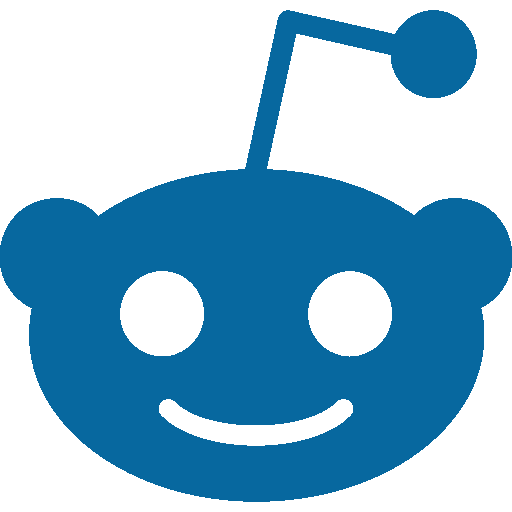
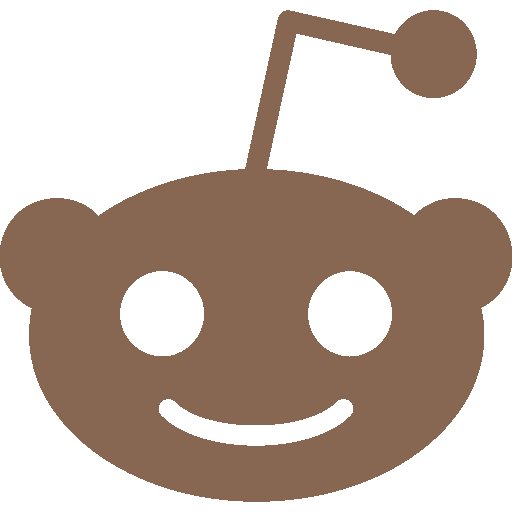
Basic UI improvement

diff --git a/public/css/style.css b/public/css/style.css
@@ -1,214 +1,226 @@
-@import url('https://fonts.googleapis.com/css?family=Roboto&display=swap');
+@import url("https://fonts.googleapis.com/css?family=Roboto&display=swap");
 
 :root {
-	--dark-color-a: #07689f;
-	--dark-color-b: #a2d5f2;
-	--light-color: #fafafa;
-	--success-color: #5cb85c;
-	--error-color: #d9534f;
+  --dark-color-a: #765A4A;
+  --dark-color-b: #A08A7B;
+  --light-color: #fafafa;
+  --success-color: #5cb85c;
+  --error-color: #d9534f;
 }
 
 * {
-	box-sizing: border-box;
-	margin: 0;
-	padding: 0;
+  box-sizing: border-box;
+  margin: 0;
+  padding: 0;
 }
 
 body {
-	font-family: 'Roboto', sans-serif;
-	font-size: 16px;
-	background: var(--light-color);
-	margin: 20px;
+  font-family: "Roboto", sans-serif;
+  font-size: 16px;
+  background:linear-gradient(to bottom, rgba(228, 227, 228, 0.486), rgba(219, 226, 239, 0.658)),url('../Images/background.jpg');
+  background-size: cover;
+  background-position: center;
+  background-repeat: no-repeat;
+  margin: 20px;
+  height: 100vh;
 }
 
 ul {
-	list-style: none;
+  list-style: none;
 }
 
 a {
-	text-decoration: none;
+  text-decoration: none;
 }
 
 .btn {
-	cursor: pointer;
-	padding: 5px 15px;
-	background: var(--light-color);
-	color: var(--dark-color-a);
-	border: 0;
-	font-size: 17px;
+  cursor: pointer;
+  padding: 5px 15px;
+  background: var(--light-color);
+  color: var(--dark-color-a);
+  border: 0;
+  font-size: 17px;
 }
 
 /* Chat Page */
 
 .chat-container {
-	max-width: 1100px;
-	background: #fff;
-	margin: 30px auto;
-	overflow: hidden;
+  max-width: 1100px;
+  background: #fff;
+  margin: 30px auto;
+  overflow: hidden;
+  border-radius: 10px;
+  box-shadow: 0 1px 1px rgba(0, 0, 0, 0.11), 0 2px 2px rgba(0, 0, 0, 0.11),
+    0 4px 4px rgba(0, 0, 0, 0.11), 0 8px 8px rgba(0, 0, 0, 0.11),
+    0 16px 16px rgba(0, 0, 0, 0.11), 0 32px 32px rgba(0, 0, 0, 0.11);
 }
 
 .chat-header {
-	background: var(--dark-color-a);
-	color: #fff;
-	border-top-left-radius: 5px;
-	border-top-right-radius: 5px;
-	padding: 15px;
-	display: flex;
-	align-items: center;
-	justify-content: space-between;
+  background: var(--dark-color-a);
+  color: #fff;
+  border-top-left-radius: 5px;
+  border-top-right-radius: 5px;
+  padding: 15px;
+  display: flex;
+  align-items: center;
+  justify-content: space-between;
 }
 
 .chat-main {
-	display: grid;
-	grid-template-columns: 1fr 3fr;
+  display: grid;
+  grid-template-columns: 1fr 3fr;
 }
 
 .chat-sidebar {
-	background: var(--dark-color-b);
-	color: #fff;
-	padding: 20px 20px 60px;
-	overflow-y: scroll;
+  background: var(--dark-color-b);
+  color: #fff;
+  padding: 20px 20px 60px;
+  overflow-y: scroll;
 }
 
 .chat-sidebar h2 {
-	font-size: 20px;
-	background: rgba(0, 0, 0, 0.1);
-	padding: 10px;
-	margin-bottom: 20px;
+  font-size: 20px;
+  background: rgba(0, 0, 0, 0.1);
+  padding: 10px;
+  margin-bottom: 20px;
 }
 
 .chat-sidebar h3 {
-	margin-bottom: 15px;
+  margin-bottom: 15px;
 }
 
 .chat-sidebar ul li {
-	padding: 10px 0;
+  padding: 10px 0;
 }
 
 .chat-messages {
-	padding: 30px;
-	max-height: 500px;
-	overflow-y: scroll;
+  padding: 30px;
+  max-height: 500px;
+  overflow-y: scroll;
 }
 
 .chat-messages .message {
-	padding: 10px;
-	margin-bottom: 15px;
-	background-color: var(--light-color);
-	border-radius: 5px;
+  padding: 10px;
+  margin-bottom: 15px;
+  border-radius: 5px;
+  background-color: #f5f5f5;
 }
 
 .chat-messages .message .meta {
-	font-size: 15px;
-	font-weight: bold;
-	color: var(--dark-color-b);
-	opacity: 0.7;
-	margin-bottom: 7px;
+  font-size: 15px;
+  font-weight: bold;
+  color: var(--dark-color-b);
+  opacity: 0.7;
+  margin-bottom: 7px;
 }
 
 .chat-messages .message .meta span {
-	color: #777;
+  color: #777;
 }
 
 .chat-form-container {
-	padding: 20px 30px;
-	background-color: var(--dark-color-a);
+  padding: 20px 30px;
+  background-color: var(--dark-color-a);
 }
 
 .chat-form-container form {
-	display: flex;
+  display: flex;
 }
 
-.chat-form-container input[type='text'] {
-	font-size: 16px;
-	padding: 5px;
-	height: 40px;
-	flex: 1;
+.chat-form-container input[type="text"] {
+  font-size: 16px;
+  padding: 5px;
+  height: 40px;
+  flex: 1;
 }
 
 /* Join Page */
 .join-container {
-	max-width: 500px;
-	margin: 80px auto;
-	color: #fff;
+  max-width: 500px;
+  margin: 80px auto;
+  color: #fff;
+  border-radius: 10px;
+  box-shadow: 0 1px 1px rgba(0, 0, 0, 0.11), 0 2px 2px rgba(0, 0, 0, 0.11),
+    0 4px 4px rgba(0, 0, 0, 0.11), 0 8px 8px rgba(0, 0, 0, 0.11),
+    0 16px 16px rgba(0, 0, 0, 0.11), 0 32px 32px rgba(0, 0, 0, 0.11);
 }
 
 .join-header {
-	text-align: center;
-	padding: 20px;
-	background: var(--dark-color-a);
-	border-top-left-radius: 5px;
-	border-top-right-radius: 5px;
+  text-align: center;
+  padding: 20px;
+  background: var(--dark-color-a);
+  border-top-left-radius: 5px;
+  border-top-right-radius: 5px;
 }
 
-.logo-img{
-	margin-bottom: -8px;
-	margin-right: 10px;
+.logo-img {
+  margin-bottom: -8px;
+  margin-right: 10px;
 }
 
 .join-main {
-	padding: 30px 40px;
-	background: var(--dark-color-b);
+  padding: 30px 40px;
+  background: var(--dark-color-b);
 }
 
 .join-main p {
-	margin-bottom: 20px;
+  margin-bottom: 20px;
 }
 
 .join-main .form-control {
-	margin-bottom: 20px;
+  margin-bottom: 20px;
 }
 
 .join-main label {
-	display: block;
-	margin-bottom: 5px;
+  display: block;
+  margin-bottom: 5px;
 }
 
-.join-main input[type='text'] {
-	font-size: 16px;
-	padding: 5px;
-	height: 40px;
-	width: 100%;
+.join-main input[type="text"] {
+  font-size: 16px;
+  padding: 5px;
+  height: 40px;
+  width: 100%;
 }
 
 .join-main select {
-	font-size: 16px;
-	padding: 5px;
-	height: 40px;
-	width: 100%;
+  font-size: 16px;
+  padding: 5px;
+  height: 40px;
+  width: 100%;
 }
 
 .join-main .btn {
-	margin-top: 20px;
-	width: 100%;
+  margin-top: 20px;
+  width: 100%;
 }
 
 @media (max-width: 700px) {
-	.chat-main {
-		display: block;
-	}
+  .chat-main {
+    display: block;
+  }
 
-	.chat-sidebar {
-		display: none;
-	}
+  .chat-sidebar {
+    display: none;
+  }
 }
 
 /* footer */
-.sm-links{
-	color: var(--dark-color-a);
-	font-size: 0.7em;
-	text-align: center;
-	position: fixed;
-	bottom: 0.6%;
-	display: inline-block;
-	margin: auto;
+.sm-links {
+  color: #370F08;
+  font-size: 0.7em;
+  text-align: center;
+  position: fixed;
+  bottom: 1%;
+  left: 50%;
+  transform: translateX(-50%);
 }
-.reddit{
-	margin-right: 10px;
+.reddit {
+  margin-right: 10px;
 }
-.spotify{
-	margin-right: 10px;
+.spotify {
+  margin-right: 10px;
 }
-.youtube{
-	margin-right: 10px;
+.youtube {
+  margin-right: 10px;
 }

diff --git a/public/index.html b/public/index.html
@@ -25,12 +25,13 @@
 				<div class="form-control">
 					<label for="room">Room</label>
 					<select name="room" id="room">
-						<option value="JavaScript">JavaScript</option>
-						<option value="Python">Python</option>
-						<option value="PHP">PHP</option>
-						<option value="C#">C#</option>
-						<option value="Ruby">Ruby</option>
-						<option value="Java">Java</option>
+						<option value="D-Circle">D-Circle</option>
+						<option value="Rule 34 abusers">Rule 34 abusers</option>
+						<option value="Goa Trip">Goa Trip</option>
+						<option value="DAV">DAV</option>
+						<option value="Ultra Legends">Ultra Legends</option>
+						<option value="Default">Default</option>
+						<option value="Reserved">Reserved</option>
 					</select>
 				</div>
 				<button type="submit" class="btn">Join Chat</button>

diff --git a/server.js b/server.js
@@ -32,7 +32,7 @@ io.on("connection", (socket) => {
       "message",
       formatMessage(
         botName,
-        "Welcome to JustTalks a website designed and developed by Nikhil Sourav"
+        "Welcome to JustTalk a website designed and developed by Nikhil Sourav"
       )
     );
     // Notify when a user connects
